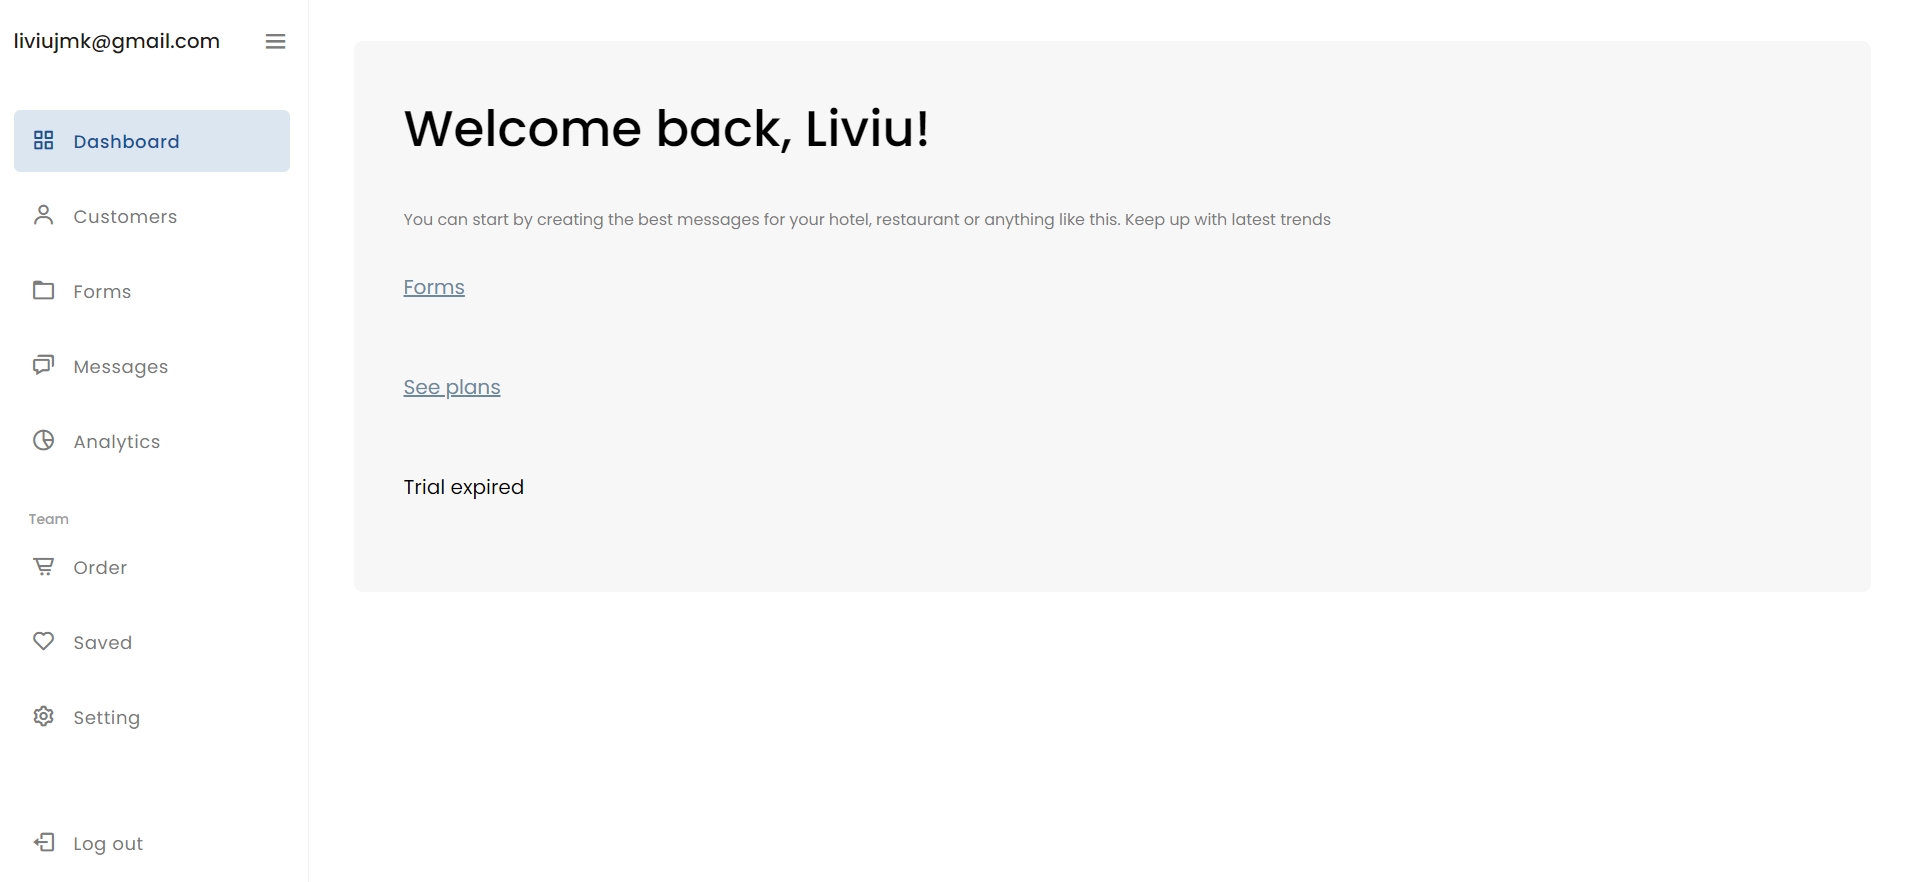
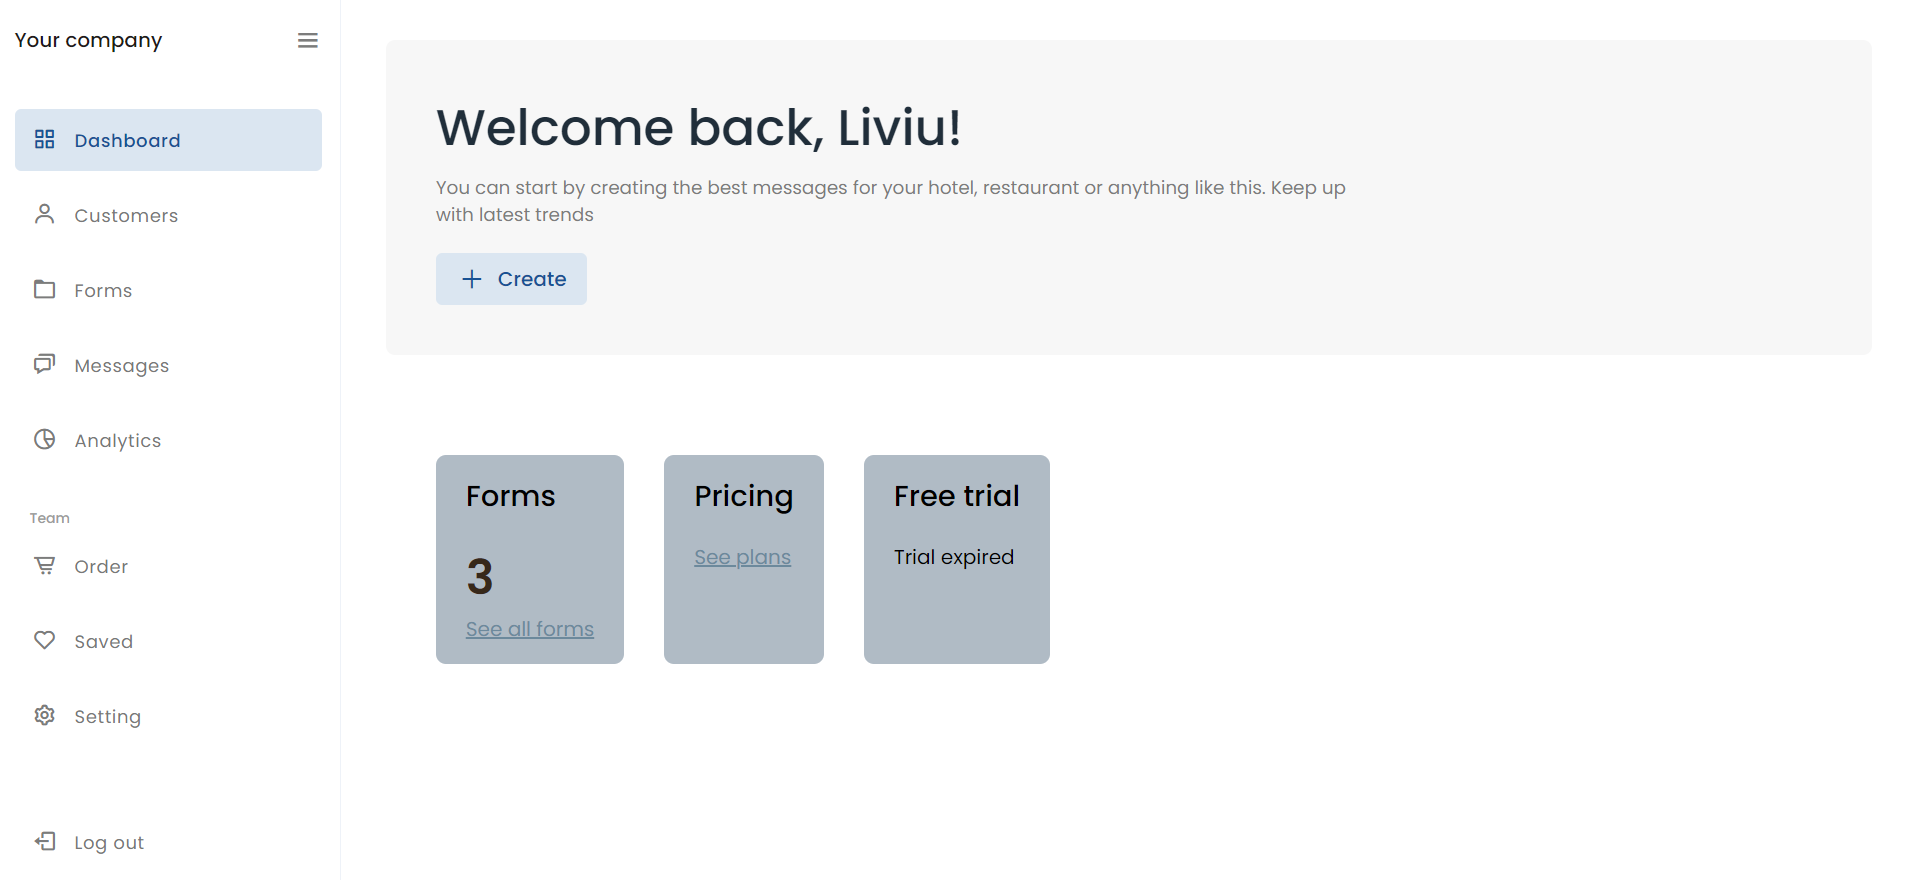
C11

diff --git a/public/css/style.css b/public/css/style.css
@@ -40,6 +40,7 @@ a {
 button {
   cursor: pointer;
   background: none;
+  width: min-content;
 }
 
 .button {
@@ -49,6 +50,7 @@ button {
   text-decoration: none;
   color: var(--main-textColor);
   transition: all .25s ease-in;
+  width: min-content;
 }
 .button:not(.btn-main):hover {
   outline: none;
@@ -123,10 +125,11 @@ span.btn-text {
 }
 
 .hd-1{
+  color: #202e3a;
   font-weight: 500;
   font-size: 2.5rem;
   line-height: 3.798rem;
-  margin-bottom: 2rem;
+  margin-bottom: .4rem !important;
 }
 
 .home-section._404 .hd-1{
@@ -188,8 +191,9 @@ input:focus {
 }
 
 .sub-heading {
-  font-size: 0.795rem;
+  font-size: 0.92rem;
   color: #7c7c7c;
+  margin-bottom: 1.25rem;
 }
 
 .overflow-y--scroll {
@@ -218,7 +222,7 @@ input:focus {
   box-sizing: border-box;
 }
 .sidebar.open{
-  width: 250px;
+  width: 275px;
 }
 .sidebar .logo-details{
   height: 60px;
@@ -458,8 +462,8 @@ input:focus {
 }
 
 .sidebar.open ~ .home-section{
-  left: 250px;
-  width: calc(100% - 250px);
+  left: 275px;
+  width: calc(100% - 275px);
 }
 
 .full-width {
@@ -537,6 +541,7 @@ input:focus {
   flex-direction: row;
   justify-content: space-between;
   align-items: center;
+  margin-bottom: 1.5rem;
 }
 
 .blank-border {
@@ -553,10 +558,10 @@ input:focus {
 .container-content {
   display: flex;
   flex-direction: column;
-}
+}/*
 .container-content > * {
   margin-bottom: 2rem;
-}
+}*/
 .container-content .hd-1:not(.main-title) {
   text-align: center;
 }
@@ -564,8 +569,45 @@ input:focus {
   margin: 1rem;
 }
 
+.flex-content {
+  display: flex;
+  flex-direction: row;
+  gap: 2rem;
+}
+
+.fc-item {
+  display: flex;
+}
+
+.small-card {
+  padding: 1rem 1.5rem;
+  background-color: #8394a3a2;
+  border-radius: .5rem;
+  flex-direction: column;
+}
+
+.card-heading {
+  margin-bottom: 1.2rem;
+}
+
+.card-heading h4 {
+  font-size: 1.45rem;
+  font-weight: 500;
+}
+
+.number {
+  color: #37281a;
+  font-size: 2.4rem;
+  font-weight: 600;
+}
+
 .blank-content {
   align-items: center;
+}
+
+.blank-content .button {
+  margin-top: 1rem;
+  width: auto;
 }
 
 .col-2-3 {
